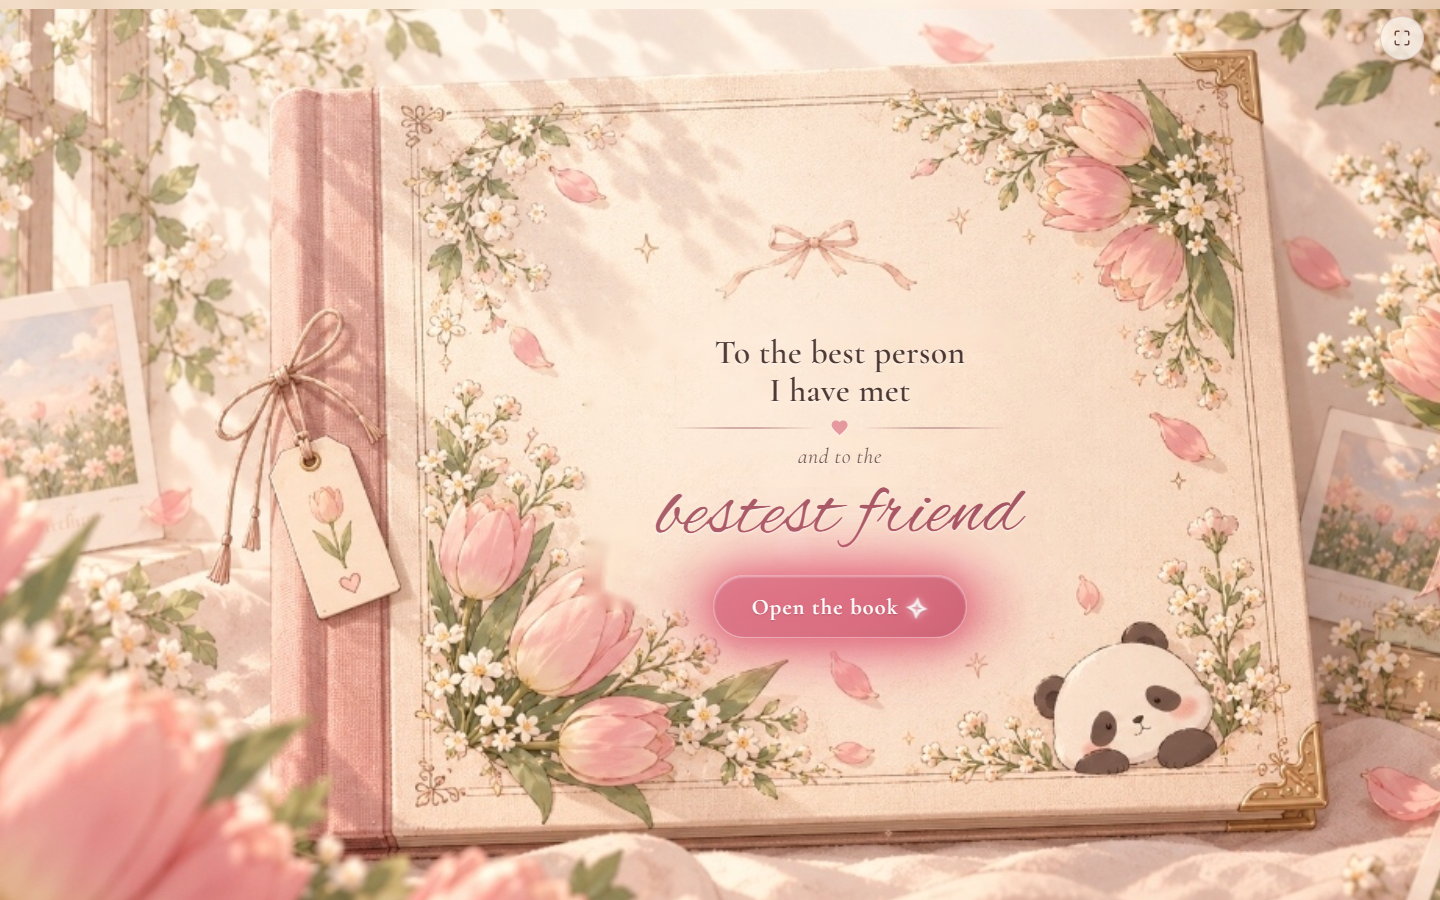
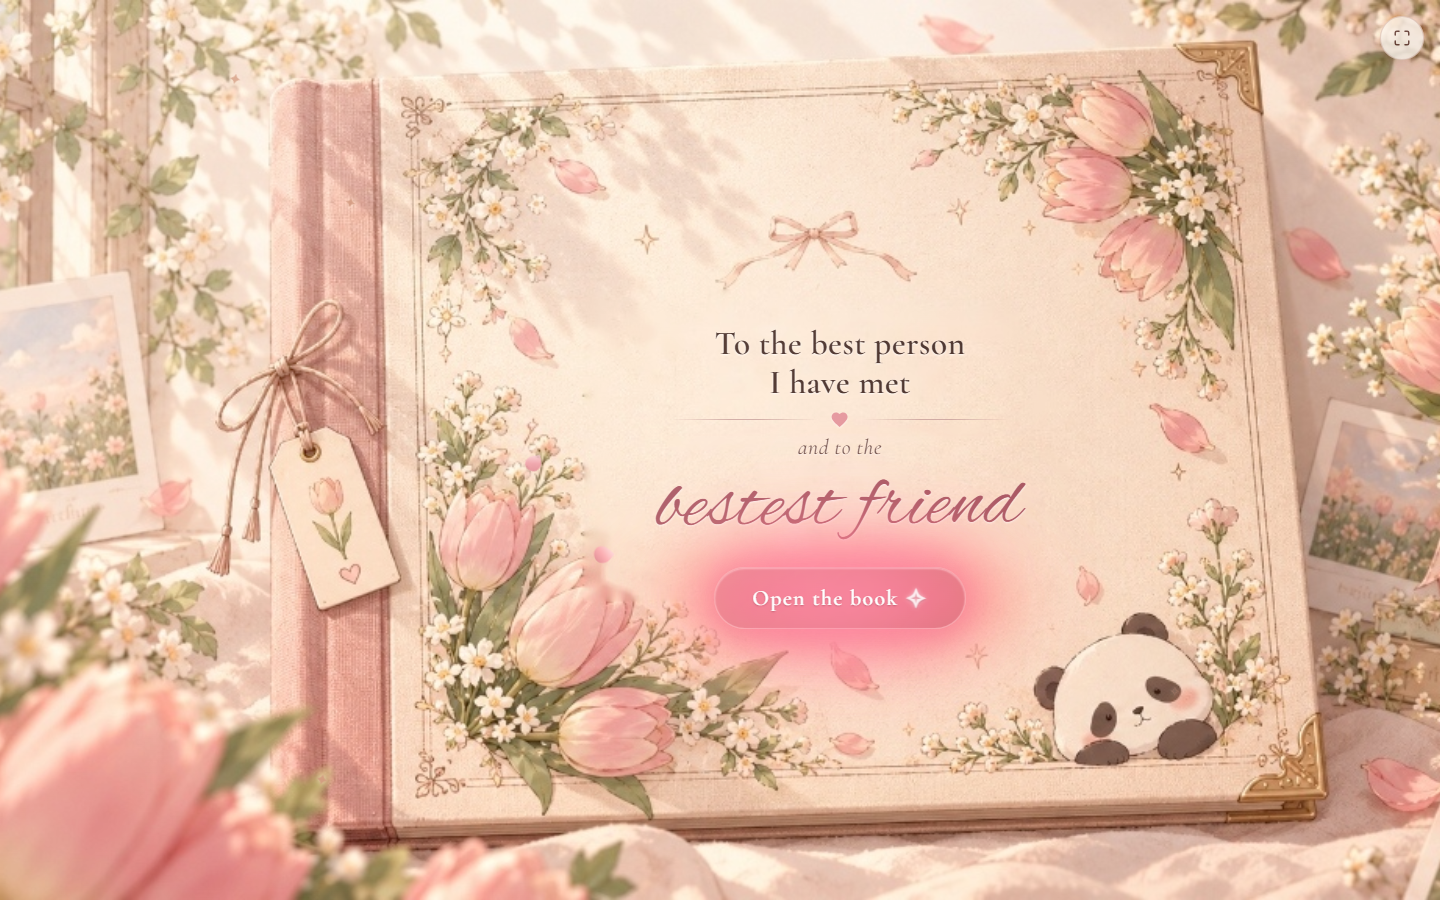
feat: add slow radiant glow and sparkle to blow candle button

diff --git a/scrapbook.html b/scrapbook.html
@@ -341,43 +341,44 @@
       transition: all 0.35s cubic-bezier(0.2, 0.8, 0.3, 1);
       isolation: isolate;
       box-shadow:
-        0 0 24px rgba(226, 105, 126, 0.68),
-        0 0 48px rgba(220, 92, 115, 0.45),
-        0 0 75px rgba(215, 80, 105, 0.22),
-        0 4px 16px rgba(120, 45, 55, 0.2),
-        inset 0 1px 1px rgba(255, 255, 255, 0.6);
+        0 0 25px rgba(255, 130, 160, 0.88),
+        0 0 52px rgba(255, 105, 140, 0.72),
+        0 0 85px rgba(255, 80, 125, 0.48),
+        0 0 125px rgba(255, 165, 140, 0.32),
+        0 5px 18px rgba(120, 35, 50, 0.25),
+        inset 0 1px 1px rgba(255, 255, 255, 0.7);
       animation: buttonBreathe 4s ease-in-out infinite;
     }
 
-    /* Soft Diffused Ambient Rose Halo */
+    /* Soft Diffused Ambient Rose & Golden Candlelight Halo */
     .book-action-btn::before {
       content: '';
       position: absolute;
       top: 50%;
       left: 50%;
-      width: 104%;
-      height: 108%;
+      width: calc(100% + 56px);
+      height: calc(100% + 36px);
       border-radius: 9999px;
       transform: translate(-50%, -50%);
-      background: radial-gradient(ellipse at center, rgba(230, 110, 132, 0.82) 0%, rgba(222, 95, 118, 0.58) 48%, rgba(215, 85, 110, 0.28) 72%, transparent 100%);
-      filter: blur(14px);
+      background: radial-gradient(ellipse at center, rgba(255, 140, 165, 0.95) 15%, rgba(255, 115, 145, 0.72) 45%, rgba(255, 175, 130, 0.38) 68%, transparent 100%);
+      filter: blur(16px);
       z-index: -1;
       pointer-events: none;
       animation: buttonHaloBreathe 4s ease-in-out infinite;
     }
 
-    /* Outward Radiating Wave Pulse */
+    /* Outward Radiating Candlelight & Rose Wave Pulse */
     .book-action-btn::after {
       content: '';
       position: absolute;
       top: 50%;
       left: 50%;
-      width: 100%;
-      height: 100%;
+      width: calc(100% + 44px);
+      height: calc(100% + 30px);
       border-radius: 9999px;
       transform: translate(-50%, -50%) scale(1);
-      background: radial-gradient(ellipse at center, rgba(238, 122, 144, 0.65) 0%, rgba(225, 95, 118, 0.35) 45%, transparent 75%);
-      filter: blur(18px);
+      background: radial-gradient(ellipse at center, rgba(255, 155, 180, 0.85) 20%, rgba(255, 120, 150, 0.55) 50%, rgba(255, 195, 145, 0.3) 72%, transparent 100%);
+      filter: blur(20px);
       z-index: -2;
       pointer-events: none;
       opacity: 0;
@@ -415,52 +416,55 @@
     @keyframes buttonBreathe {
       0%, 100% {
         box-shadow:
-          0 0 22px rgba(226, 105, 126, 0.6),
-          0 0 45px rgba(220, 92, 115, 0.38),
-          0 0 70px rgba(215, 80, 105, 0.18),
-          0 4px 16px rgba(120, 45, 55, 0.18),
-          inset 0 1px 1px rgba(255, 255, 255, 0.55);
+          0 0 22px rgba(255, 120, 150, 0.8),
+          0 0 46px rgba(255, 95, 130, 0.62),
+          0 0 76px rgba(255, 75, 115, 0.4),
+          0 0 110px rgba(255, 150, 135, 0.25),
+          0 4px 16px rgba(120, 35, 50, 0.22),
+          inset 0 1px 1px rgba(255, 255, 255, 0.7);
       }
       50% {
         box-shadow:
-          0 0 36px rgba(238, 118, 140, 0.85),
-          0 0 68px rgba(228, 100, 125, 0.6),
-          0 0 105px rgba(220, 85, 112, 0.32),
-          0 5px 22px rgba(120, 45, 55, 0.24),
-          inset 0 1px 2px rgba(255, 255, 255, 0.75);
+          0 0 38px rgba(255, 150, 175, 1),
+          0 0 72px rgba(255, 115, 150, 0.85),
+          0 0 115px rgba(255, 90, 135, 0.6),
+          0 0 155px rgba(255, 180, 145, 0.4),
+          0 6px 22px rgba(120, 35, 50, 0.28),
+          inset 0 1px 2px rgba(255, 255, 255, 0.9);
       }
     }
 
     @keyframes buttonHaloBreathe {
       0%, 100% {
-        transform: translate(-50%, -50%) scale(1.05);
-        opacity: 0.65;
-        filter: blur(12px);
+        transform: translate(-50%, -50%) scale(0.96);
+        opacity: 0.72;
+        filter: blur(14px);
       }
       50% {
-        transform: translate(-50%, -50%) scale(1.32);
-        opacity: 0.96;
-        filter: blur(20px);
+        transform: translate(-50%, -50%) scale(1.24);
+        opacity: 1;
+        filter: blur(22px);
       }
     }
 
     @keyframes buttonRadiatePulse {
       0% {
-        transform: translate(-50%, -50%) scale(0.96);
+        transform: translate(-50%, -50%) scale(0.92);
         opacity: 0;
+        filter: blur(16px);
       }
-      20% {
-        opacity: 0.78;
+      22% {
+        opacity: 0.95;
       }
-      75% {
-        transform: translate(-50%, -50%) scale(1.58);
-        opacity: 0.18;
-        filter: blur(24px);
+      68% {
+        transform: translate(-50%, -50%) scale(1.65);
+        opacity: 0.35;
+        filter: blur(28px);
       }
       100% {
-        transform: translate(-50%, -50%) scale(1.82);
+        transform: translate(-50%, -50%) scale(2.15);
         opacity: 0;
-        filter: blur(30px);
+        filter: blur(38px);
       }
     }
 
@@ -627,6 +631,7 @@
     .page-leaf-front {
       z-index: 2;
       border-radius: 0 clamp(3px, 0.6cqw, 8px) clamp(3px, 0.6cqw, 8px) 0;
+      overflow: visible;
     }
 
     .page-leaf-front .page-leaf-img {
@@ -1803,7 +1808,7 @@
 
               <!-- Right Page Action Button: "Blow the candles ✿" -> "turn page ✿ →" -->
               <button id="blowCandlesBtn" class="book-action-btn blow-candles-btn" aria-label="Blow the candles">
-                <span id="blowBtnLabel">Blow the candles ✿</span>
+                <span id="blowBtnLabel">Blow the candles <span class="btn-sparkle" aria-hidden="true">✿</span></span>
               </button>
 
               <!-- Dynamic Lighting / Shadow overlay -->
@@ -1874,7 +1879,7 @@
 
             <!-- Action Button: "Next page ✿ →" (Closes book and goes to hug.html) -->
             <button id="nextPageBtn" class="book-action-btn spread2-next-btn" aria-label="Next page">
-              <span>Next page ✿ →</span>
+              <span>Next page <span class="btn-sparkle" aria-hidden="true">✿ →</span></span>
             </button>
           </div>
 
@@ -1966,6 +1971,7 @@
     // ═══════════════════════════════════════════════════════════
     const spreadContainer = document.getElementById('spreadContainer');
     const pageLeaf = document.getElementById('pageLeaf');
+    const pageLeafBack = pageLeaf.querySelector('.page-leaf-back');
     const leftPageTypo = document.getElementById('leftPageTypo');
     const poemContent = document.getElementById('poemContent');
     const blowCandlesBtn = document.getElementById('blowCandlesBtn');
@@ -2027,6 +2033,7 @@
       if (isPageTurned) return;
       isPageTurned = true;
       pageLeaf.classList.add('flipped');
+      pageLeafBack.removeAttribute('aria-hidden');
 
       setTimeout(() => {
         spreadContainer.classList.add('is-page-turned');
@@ -2085,7 +2092,7 @@
           }, 300);
 
           // 6. Update button to "turn page"
-          blowBtnLabel.textContent = 'next page ✿ →';
+          blowBtnLabel.innerHTML = 'next page <span class="btn-sparkle" aria-hidden="true">✿ →</span>';
           blowCandlesBtn.setAttribute('aria-label', 'next page');
           isCandlesBlown = true;
           isTransitioning = false;
@@ -2159,7 +2166,7 @@
       smokes.forEach(s => s.classList.add('active'));
       wishNoteContainer.classList.add('is-revealed');
       wishNoteContainer.removeAttribute('aria-hidden');
-      blowBtnLabel.textContent = 'next page ✿ →';
+      blowBtnLabel.innerHTML = 'next page <span class="btn-sparkle" aria-hidden="true">✿ →</span>';
       blowCandlesBtn.setAttribute('aria-label', 'next page');
       isCandlesBlown = true;
     } else if (urlParams.get('state') === 'flipped') {
@@ -2171,9 +2178,10 @@
       smokes.forEach(s => s.classList.add('active'));
       wishNoteContainer.classList.add('is-revealed');
       wishNoteContainer.removeAttribute('aria-hidden');
-      blowBtnLabel.textContent = 'next page ✿ →';
+      blowBtnLabel.innerHTML = 'next page <span class="btn-sparkle" aria-hidden="true">✿ →</span>';
       isCandlesBlown = true;
       pageLeaf.classList.add('flipped');
+      pageLeafBack.removeAttribute('aria-hidden');
       spreadContainer.classList.add('is-page-turned');
       leftPageTypo.style.opacity = '0';
       if (poemContent) poemContent.style.opacity = '0';
